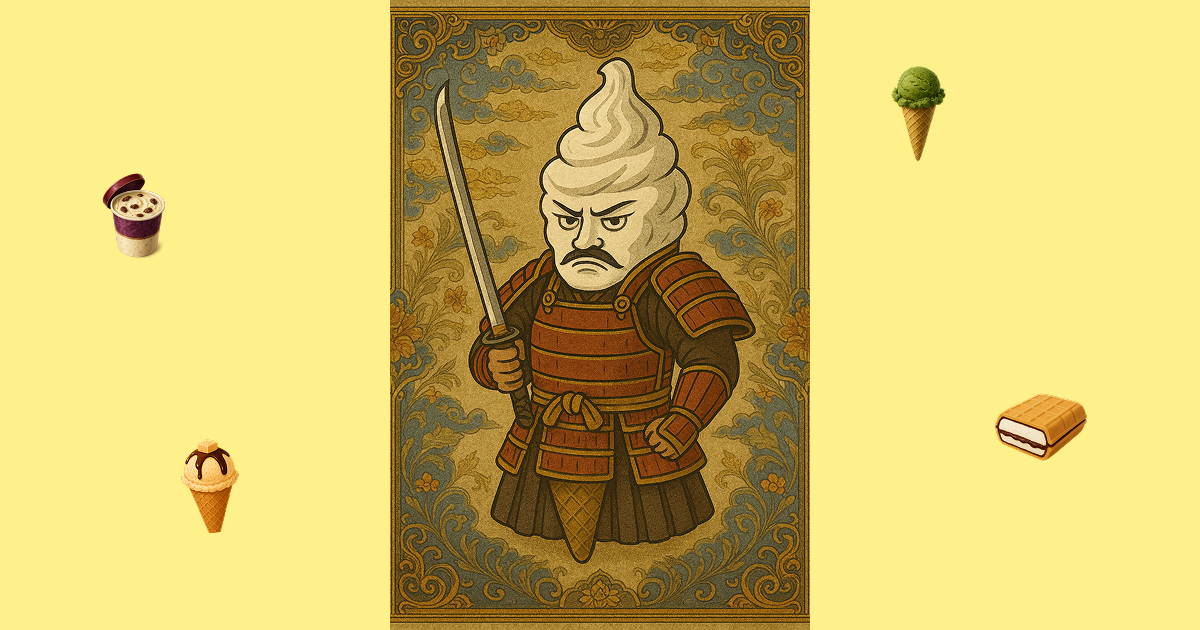
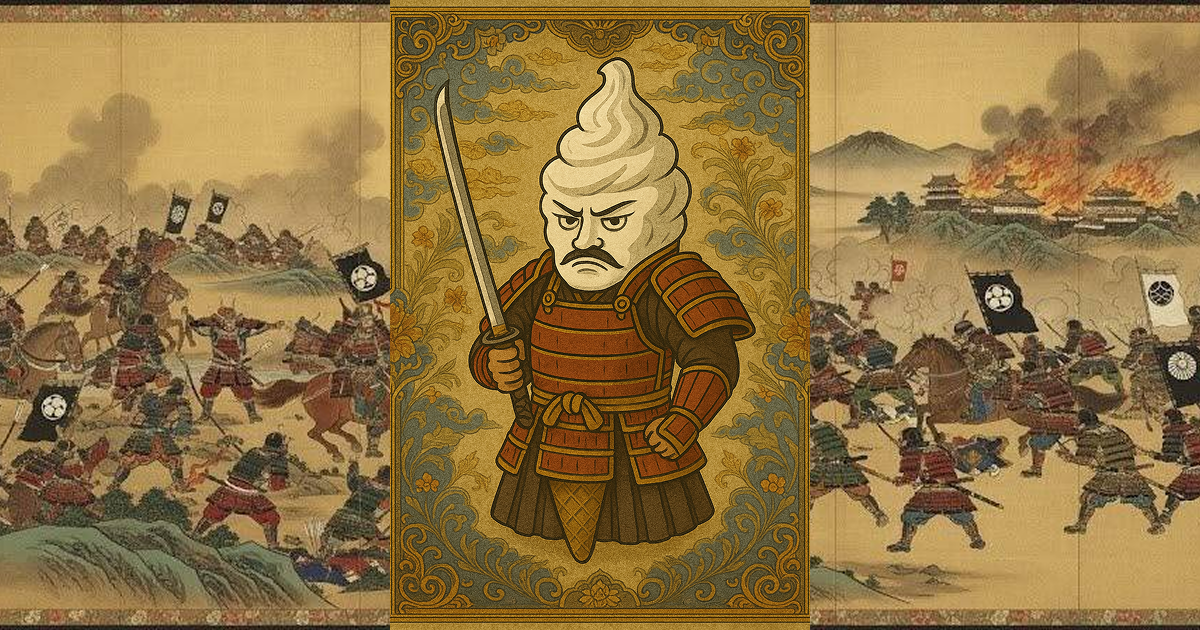
OGP画像変更

diff --git a/app/controllers/quizzes_controller.rb b/app/controllers/quizzes_controller.rb
@@ -81,7 +81,7 @@ class QuizzesController < ApplicationController
         score = params[:score].to_i
 
         @score = score
-        
+
         @message, og_image, title_message = case score
         when 0..3
         [
@@ -110,7 +110,7 @@ class QuizzesController < ApplicationController
         when 10
         [
             "伝説降臨！おぬしこそ“あいす大将軍”。甘味のすべてを知り尽くした究極の存在よ…！その名、永遠に語り継がれん。",
-            "daisyogun.jpg",
+            "daisyogun.png",
             "あいす界の絶対王者！"
         ]
         else
